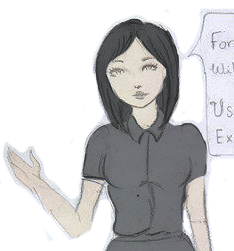
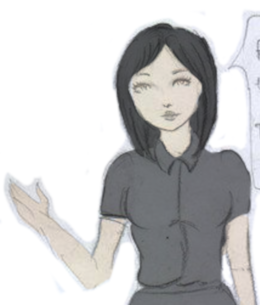
d

Changed region(s): [[0.0299, 0.0279, 1.0, 1.0], [0.9872, 0.0279, 1.0, 0.0558]]

diff --git a/website.html b/website.html
@@ -63,11 +63,11 @@
                 <div class="col">
                     <div class="row">
                         <div class="col-12 col-sm-6 col-md-3 text-center">
-                            <img src="./images/website/portrait1.png" class="rounded-circle img-fluid">
+                            <img src="./images/website/portrait1.png" class="rounded-circle img-fluid" height="200px">
                             <p class="heading"><strong>你好</strong></p>
                         </div>
                         <div class="col-12 col-sm-6 col-md-3 text-center">
-                            <img src="./images/website/portrait2.png" class="rounded-circle img-fluid">
+                            <img src="./images/website/portrait2.png" class="rounded-circle img-fluid" height="200px">
                             <p class="heading"><strong>Ola</strong></p>
                         </div>
                         <div class="col-12 col-sm-6 col-md-3 text-center">
